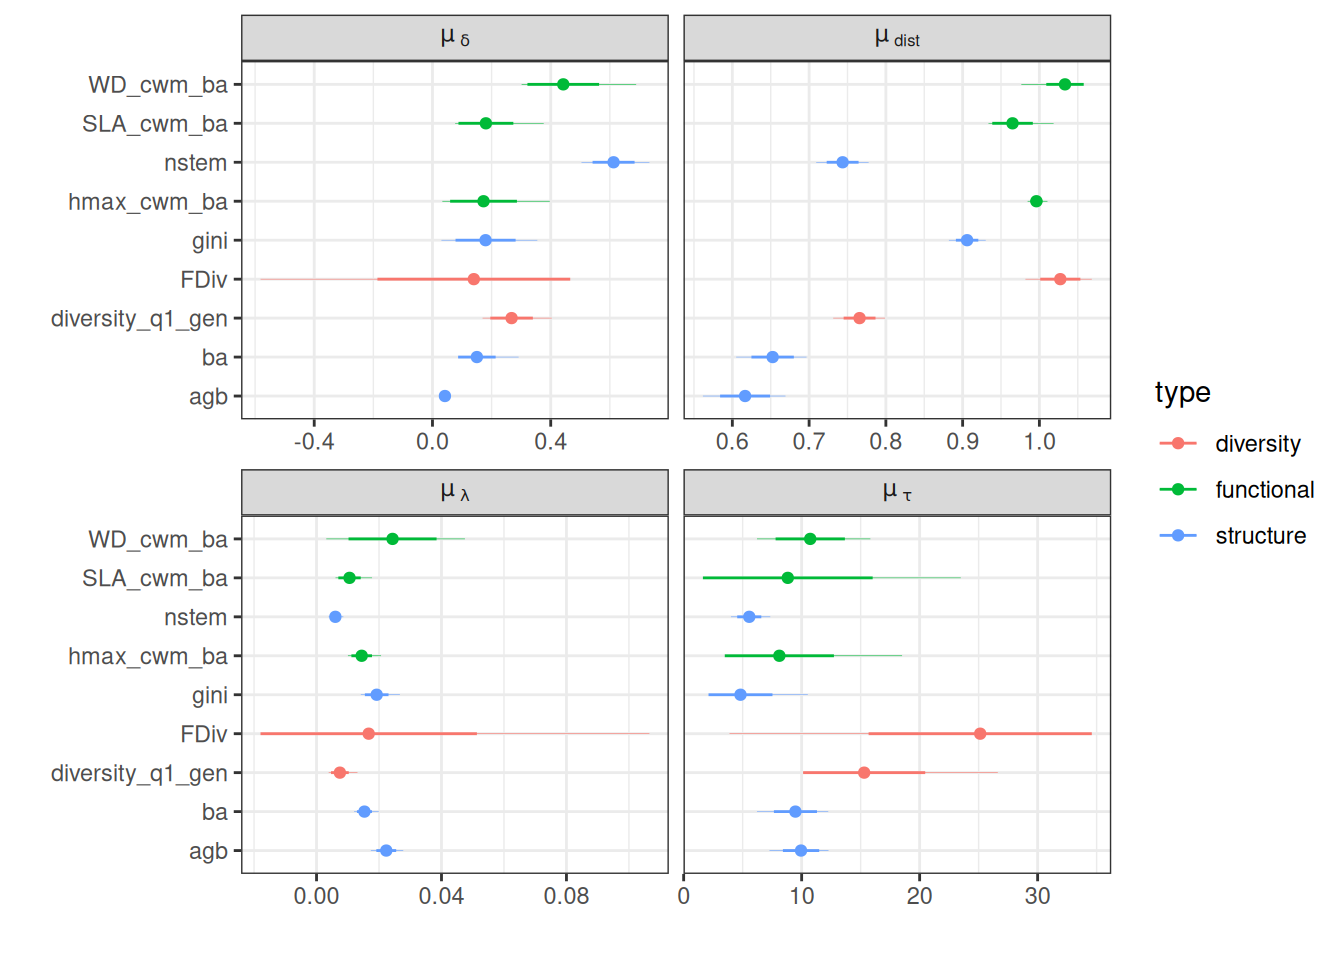
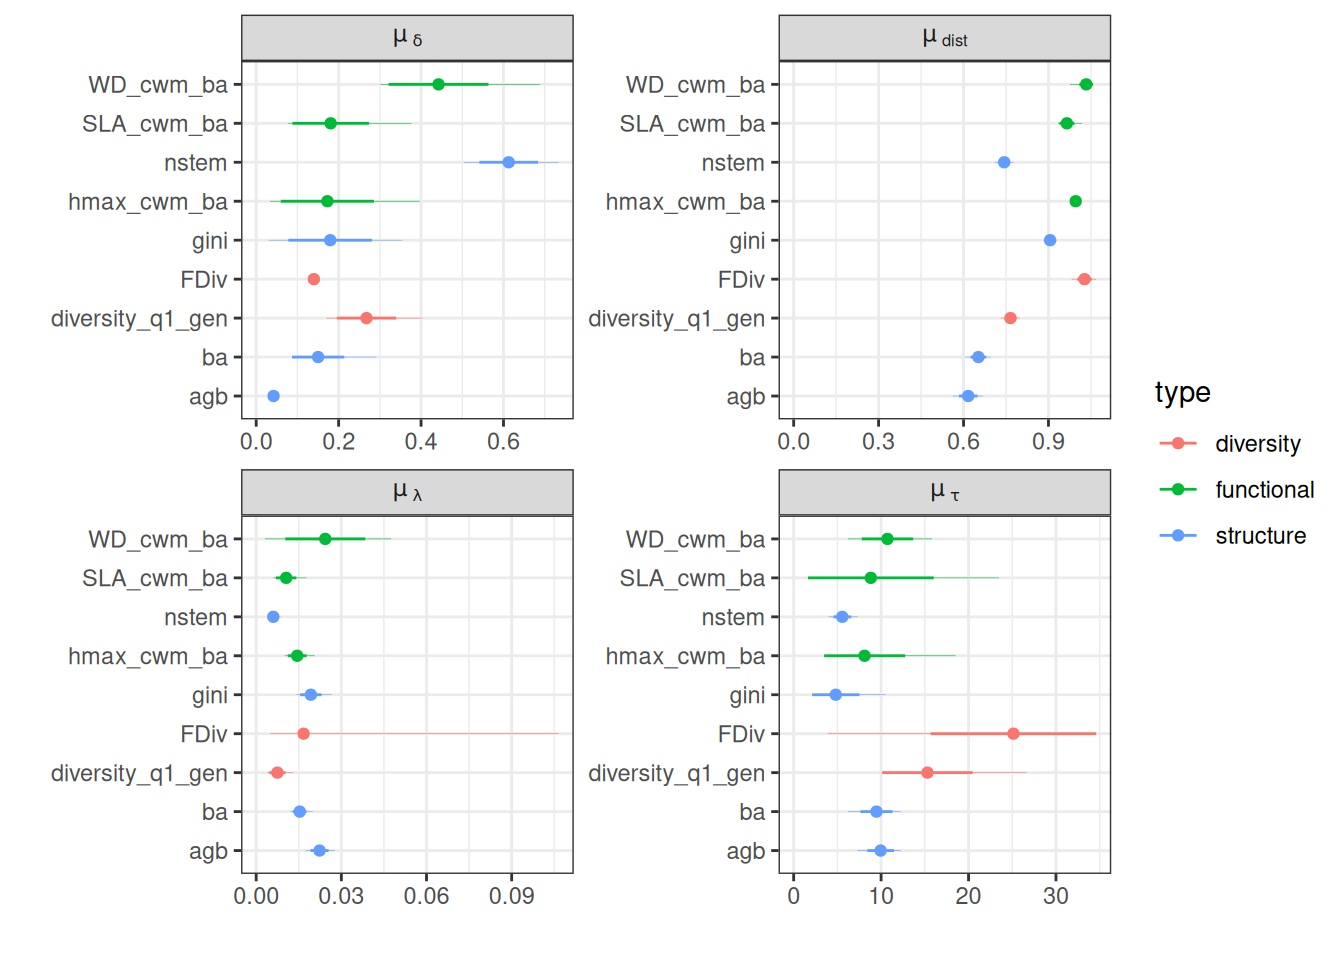
Fdiv mu_lambda fix

diff --git a/docs/50_parameters.html b/docs/50_parameters.html
@@ -508,8 +508,17 @@ pre > code.sourceCode > span > a:first-child::before { text-decoration: underlin
 <span id="cb3-17"><a href="#cb3-17" aria-hidden="true" tabindex="-1"></a>  <span class="fu">coord_flip</span>() <span class="sc">+</span></span>
 <span id="cb3-18"><a href="#cb3-18" aria-hidden="true" tabindex="-1"></a>  <span class="fu">theme_bw</span>() <span class="sc">+</span></span>
 <span id="cb3-19"><a href="#cb3-19" aria-hidden="true" tabindex="-1"></a>  <span class="fu">xlab</span>(<span class="st">""</span>) <span class="sc">+</span></span>
-<span id="cb3-20"><a href="#cb3-20" aria-hidden="true" tabindex="-1"></a>  <span class="fu">ylab</span>(<span class="st">""</span>)</span></code><button title="Copy to Clipboard" class="code-copy-button"><i class="bi"></i></button></pre></div>
+<span id="cb3-20"><a href="#cb3-20" aria-hidden="true" tabindex="-1"></a>  <span class="fu">ylab</span>(<span class="st">""</span>) <span class="sc">+</span></span>
+<span id="cb3-21"><a href="#cb3-21" aria-hidden="true" tabindex="-1"></a>  <span class="fu">ylim</span>(<span class="dv">0</span>, <span class="cn">NA</span>)</span></code><button title="Copy to Clipboard" class="code-copy-button"><i class="bi"></i></button></pre></div>
 </details>
+<div class="cell-output-display">
+<div class="quarto-figure quarto-figure-center">
+<figure class="figure">
+<p><img src="50_parameters_files/figure-html/inter-1.png" class="img-fluid figure-img" width="672"></p>
+<figcaption class="figure-caption">thetaInf across sites</figcaption>
+</figure>
+</div>
+</div>
 </div>
 </section>
 <section id="site" class="level2">

diff --git a/docs/52_group2.html b/docs/52_group2.html
@@ -356,7 +356,8 @@ pre > code.sourceCode > span > a:first-child::before { text-decoration: underlin
 <span id="cb1-10"><a href="#cb1-10" aria-hidden="true" tabindex="-1"></a>  <span class="fu">coord_flip</span>() <span class="sc">+</span></span>
 <span id="cb1-11"><a href="#cb1-11" aria-hidden="true" tabindex="-1"></a>  <span class="fu">theme_bw</span>() <span class="sc">+</span></span>
 <span id="cb1-12"><a href="#cb1-12" aria-hidden="true" tabindex="-1"></a>  <span class="fu">ylab</span>(<span class="fu">expression</span>(mu[<span class="sc">~</span>lambda])) <span class="sc">+</span></span>
-<span id="cb1-13"><a href="#cb1-13" aria-hidden="true" tabindex="-1"></a>  <span class="fu">xlab</span>(<span class="st">""</span>)</span></code><button title="Copy to Clipboard" class="code-copy-button"><i class="bi"></i></button></pre></div>
+<span id="cb1-13"><a href="#cb1-13" aria-hidden="true" tabindex="-1"></a>  <span class="fu">xlab</span>(<span class="st">""</span>) <span class="sc">+</span></span>
+<span id="cb1-14"><a href="#cb1-14" aria-hidden="true" tabindex="-1"></a>  <span class="fu">ylim</span>(<span class="dv">0</span>, <span class="cn">NA</span>)</span></code><button title="Copy to Clipboard" class="code-copy-button"><i class="bi"></i></button></pre></div>
 </details>
 <div class="cell-output-display">
 <p><img src="52_group2_files/figure-html/lambda_a-1.png" class="img-fluid" width="672"></p>
